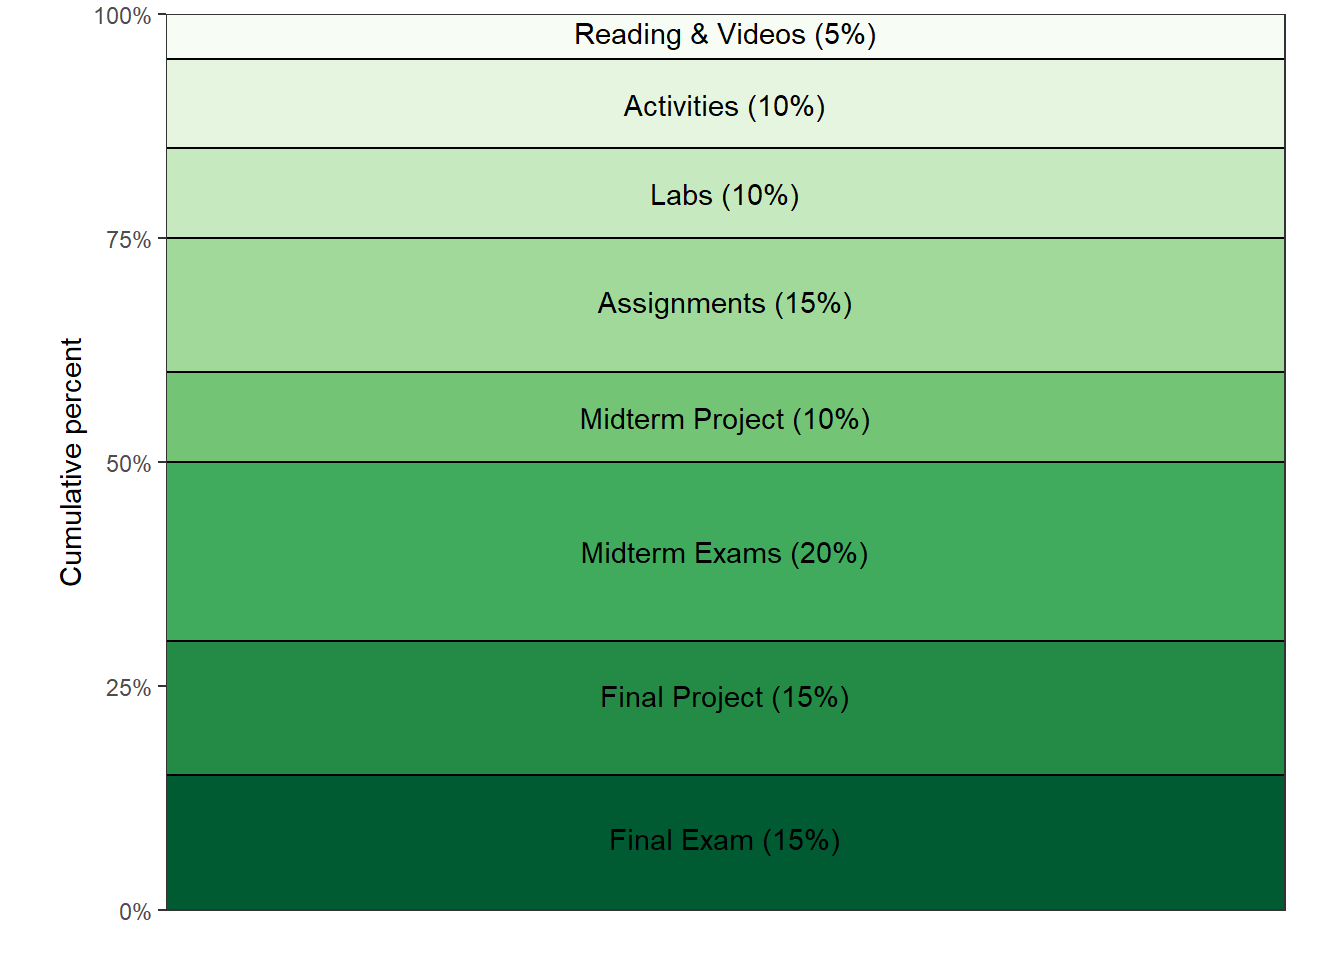
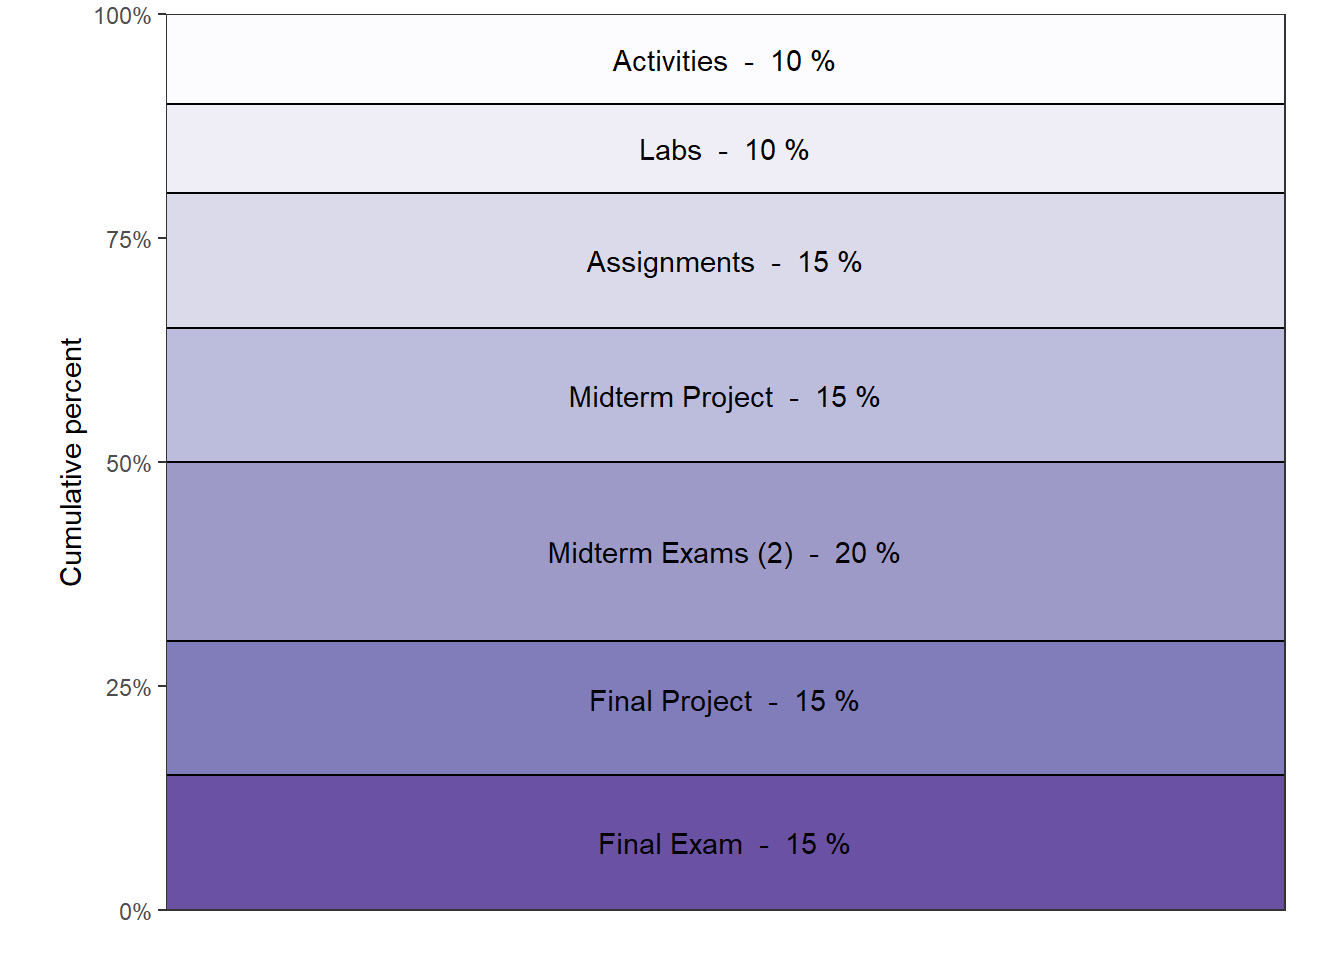
still working on syllabi.

diff --git a/00-course-info/syllabus-master.html b/00-course-info/syllabus-master.html
@@ -55,6 +55,7 @@ ul.task-list li input[type="checkbox"] {
   <li><a href="#prerequisites" id="toc-prerequisites" class="nav-link" data-scroll-target="#prerequisites">Prerequisites</a></li>
   </ul></li>
   <li><a href="#class-schedule-topic-outline" id="toc-class-schedule-topic-outline" class="nav-link" data-scroll-target="#class-schedule-topic-outline">Class Schedule &amp; Topic Outline</a></li>
+  <li><a href="#course-expectations" id="toc-course-expectations" class="nav-link" data-scroll-target="#course-expectations">Course Expectations</a></li>
   <li><a href="#course-policies" id="toc-course-policies" class="nav-link" data-scroll-target="#course-policies">Course Policies</a>
   <ul class="collapse">
   <li><a href="#assessmentgrading" id="toc-assessmentgrading" class="nav-link" data-scroll-target="#assessmentgrading">Assessment/Grading</a></li>
@@ -62,11 +63,13 @@ ul.task-list li input[type="checkbox"] {
   <ul class="collapse">
   <li><a href="#communication" id="toc-communication" class="nav-link" data-scroll-target="#communication">Communication</a></li>
   <li><a href="#assessment-breakdown" id="toc-assessment-breakdown" class="nav-link" data-scroll-target="#assessment-breakdown">Assessment Breakdown</a></li>
+  <li><a href="#midterm-final-projects-25" id="toc-midterm-final-projects-25" class="nav-link" data-scroll-target="#midterm-final-projects-25"><em>Midterm &amp; Final Projects (25%)</em></a></li>
+  <li><a href="#midterm-exams-20" id="toc-midterm-exams-20" class="nav-link" data-scroll-target="#midterm-exams-20"><em>Midterm exams (20%)</em></a></li>
+  <li><a href="#final-exam-15" id="toc-final-exam-15" class="nav-link" data-scroll-target="#final-exam-15"><em>Final exam (15%)</em></a></li>
   <li><a href="#working-in-teams" id="toc-working-in-teams" class="nav-link" data-scroll-target="#working-in-teams">Working in Teams</a></li>
   </ul></li>
   <li><a href="#late-policy" id="toc-late-policy" class="nav-link" data-scroll-target="#late-policy">Late Policy</a></li>
   <li><a href="#attendance" id="toc-attendance" class="nav-link" data-scroll-target="#attendance">Attendance</a></li>
-  <li><a href="#expectations" id="toc-expectations" class="nav-link" data-scroll-target="#expectations">Expectations</a></li>
   </ul></li>
   <li><a href="#required-university-information" id="toc-required-university-information" class="nav-link" data-scroll-target="#required-university-information">Required University Information</a>
   <ul class="collapse">
@@ -312,6 +315,31 @@ ul.task-list li input[type="checkbox"] {
 </div>
 </div>
 </section>
+<section id="course-expectations" class="level1">
+<h1>Course Expectations</h1>
+<p>You will get out of this course what you put in. The following excerpt was taken from Rob Jenkins’ article “Defining the Relationship” which was published in The Chronicle of Higher Education (August 8, 2016). This accurately summarizes what I expect of you in my classroom (and also what you should expect of me).</p>
+<p><em>“I’d like to be your partner. More than anything, I’d like for us to form a mutually beneficial alliance in this endeavor we call education.</em></p>
+<p><em>I pledge to do my part. I will:</em></p>
+<ul>
+<li><em>Stay abreast of the latest ideas in my field.</em></li>
+<li><em>Teach you what I believe you need to know; with all the enthusiasm I possess.</em></li>
+<li><em>Invite your comments and questions and respond constructively.</em></li>
+<li><em>Make myself available to you outside of class (within reason).</em></li>
+<li><em>Evaluate your work carefully and return it promptly with feedback.</em></li>
+<li><em>Be as fair, respectful, and understanding as I can humanly be.</em></li>
+<li><em>If you need help beyond the scope of this course, I will do my best to provide it or see that you get it.</em></li>
+</ul>
+<p><em>In return, I expect you to:</em></p>
+<ul>
+<li><em>Show up for class each day or let me know (preferably in advance) if you have some good reason to be absent.</em></li>
+<li><em>Do your reading and other assignments outside of class and be prepared for each class meeting.</em></li>
+<li><em>Focus during class on the work we’re doing and not on extraneous matters (like whoever or whatever is on your phone at the moment).</em></li>
+<li><em>Participate in class discussions.</em></li>
+<li><em>Be respectful of your fellow students and their points of view.</em></li>
+<li><em>In short, I expect you to devote as much effort to learning as I devote to teaching.</em></li>
+</ul>
+<p><em>What you get out of this relationship is that you’ll be better equipped to succeed in this and other college courses, work-related assignments, and life in general. What I get is a great deal of professional and personal satisfaction. Because I do really like you guys and want the best for you.”</em></p>
+</section>
 <section id="course-policies" class="level1">
 <h1>Course Policies</h1>
 <section id="assessmentgrading" class="level2">
@@ -392,48 +420,52 @@ ul.task-list li input[type="checkbox"] {
 </section>
 <section id="assessment-breakdown" class="level3">
 <h3 class="anchored" data-anchor-id="assessment-breakdown">Assessment Breakdown</h3>
-<div class="panel-tabset" data-group="coures-resources">
-<ul class="nav nav-tabs" role="tablist"><li class="nav-item" role="presentation"><a class="nav-link active" id="tabset-2-1-tab" data-bs-toggle="tab" data-bs-target="#tabset-2-1" role="tab" aria-controls="tabset-2-1" aria-selected="true" href="">Reading &amp; Videos (5%)</a></li><li class="nav-item" role="presentation"><a class="nav-link" id="tabset-2-2-tab" data-bs-toggle="tab" data-bs-target="#tabset-2-2" role="tab" aria-controls="tabset-2-2" aria-selected="false" href="">In-class Activities (10%)</a></li><li class="nav-item" role="presentation"><a class="nav-link" id="tabset-2-3-tab" data-bs-toggle="tab" data-bs-target="#tabset-2-3" role="tab" aria-controls="tabset-2-3" aria-selected="false" href="">Group Labs (10%)</a></li><li class="nav-item" role="presentation"><a class="nav-link" id="tabset-2-4-tab" data-bs-toggle="tab" data-bs-target="#tabset-2-4" role="tab" aria-controls="tabset-2-4" aria-selected="false" href="">Individual Assignments (15%)</a></li><li class="nav-item" role="presentation"><a class="nav-link" id="tabset-2-5-tab" data-bs-toggle="tab" data-bs-target="#tabset-2-5" role="tab" aria-controls="tabset-2-5" aria-selected="false" href="">Midterm exams (20%)</a></li><li class="nav-item" role="presentation"><a class="nav-link" id="tabset-2-6-tab" data-bs-toggle="tab" data-bs-target="#tabset-2-6" role="tab" aria-controls="tabset-2-6" aria-selected="false" href="">Final exam (15%)</a></li></ul>
-<div class="tab-content" data-group="coures-resources">
-<div id="tabset-2-1" class="tab-pane active" role="tabpanel" aria-labelledby="tabset-2-1-tab">
+<!-- ::: {.panel-tabset group="coures-resources"} -->
+<section id="reading-videos-5" class="level4">
+<h4 class="anchored" data-anchor-id="reading-videos-5"><em>Reading &amp; Videos (5%)</em></h4>
 <p>You will be expected to complete the assigned textbook reading and course videos prior to attending class each week. As you complete the reading and watch the videos, you should complete the concept check quiz questions. You can retake the video quizzes as many times as you like (the most recent grade will be recorded in Canvas) until the deadline.</p>
 <ul>
 <li>Concept check quizzes are due <strong>Monday at 8pm Pacific Time each week</strong>.</li>
 <li>The two lowest concept check quiz grades will be dropped.</li>
 </ul>
-</div>
-<div id="tabset-2-2" class="tab-pane" role="tabpanel" aria-labelledby="tabset-2-2-tab">
+</section>
+<section id="activities-10" class="level4">
+<h4 class="anchored" data-anchor-id="activities-10"><em>Activities (10%)</em></h4>
 <p>Monday’s classes will be dedicated to meeting with your classmates and instructor to work through that week’s group activity. Attendance and completion of the activity counts towards this portion of your grade.</p>
 <ul>
 <li>Printed activities will be provided for you on Monday, with Word and PDF files posted on Canvas</li>
-<li>Activities will be checked for completion at the <strong>beginning of class on Wednesday.</strong></li>
+<li>Activities will be checked individually for completion at the <strong>beginning of class on Wednesday.</strong></li>
 <li>If you have an excused absence the day the activity is due (e.g., quarantine or ill), you may email me a scanned copy of the completed activity for credit. This must be received by <strong>8pm Pacific Time on the day the activity would be checked in class</strong>.</li>
 <li>The lowest activity grade will be dropped.</li>
 </ul>
-</div>
-<div id="tabset-2-3" class="tab-pane" role="tabpanel" aria-labelledby="tabset-2-3-tab">
+</section>
+<section id="labs-10" class="level4">
+<h4 class="anchored" data-anchor-id="labs-10"><em>Labs (10%)</em></h4>
 <p>Every Wednesday, you will meet with your classmates and instructor to work through that week’s Rstudio Cloud group lab. The lab will reinforce the ideas learned in the activities completed Monday, through the use of R to explore and analyze data.</p>
 <ul>
 <li>Each group will turn in selected questions from the lab to Canvas. Labs are due <strong>Friday at 8pm Pacific Time each week</strong>.</li>
 <li>Each individual student will also turn in the entirety of each lab for completion at the <strong>beginning of class on Monday</strong>.</li>
 <li>The lowest lab grade will be dropped.</li>
 </ul>
-</div>
-<div id="tabset-2-4" class="tab-pane" role="tabpanel" aria-labelledby="tabset-2-4-tab">
+</section>
+<section id="individual-assignments-15" class="level4">
+<h4 class="anchored" data-anchor-id="individual-assignments-15"><em>Individual Assignments (15%)</em></h4>
 <p>You will complete weekly assignments in <strong>Canvas</strong>. These should be completed <strong>individually</strong> (meaning all answers should be written in your own words), but you may use your classmates, tutors, or your instructor for assistance.</p>
 <ul>
 <li>Weekly assignments are due <strong>Sunday at 8pm Pacific Time each week</strong>.</li>
 <li>The lowest assignment grade will be dropped.</li>
 </ul>
+</section>
+</section>
 <section id="midterm-final-projects-25" class="level3">
-<h3 class="anchored" data-anchor-id="midterm-final-projects-25">Midterm &amp; Final Projects (25%)</h3>
+<h3 class="anchored" data-anchor-id="midterm-final-projects-25"><em>Midterm &amp; Final Projects (25%)</em></h3>
 <p>There will be two projects throughout the quarter, where you will be asked to apply the statistical concepts you have learned in the context of real data. Each of these projects will be done in the teams you have been working with in class. More details will be provided during class.</p>
 </section>
-</div>
-<div id="tabset-2-5" class="tab-pane" role="tabpanel" aria-labelledby="tabset-2-5-tab">
+<section id="midterm-exams-20" class="level3">
+<h3 class="anchored" data-anchor-id="midterm-exams-20"><em>Midterm exams (20%)</em></h3>
 <p>There will be one midterm exam (worth 15% of the course grade). The midterm exam will be taken in class during your normal in-class time. Each exam has a group (Wednesday) and individual (Friday) component. A practice exam will be released in Canvas one week prior to the exam, with solutions to the practice exam released in Canvas the Friday prior to the exam. Further details, resources, and instructions for each exam will be posted the week prior to the exam in Canvas.</p>
-<section id="group-portion" class="level5">
-<h5 class="anchored" data-anchor-id="group-portion"><em>Group portion</em>:</h5>
+<section id="group-portion" class="level4">
+<h4 class="anchored" data-anchor-id="group-portion"><em>Group portion</em>:</h4>
 <p>Group midterm exam 1 will be: <strong>Wednesday, April 27</strong></p>
 <p>Group midterm exam 2 will be: <strong>Wednesday, May 18</strong></p>
 <ul>
@@ -444,8 +476,8 @@ ul.task-list li input[type="checkbox"] {
 <li><strong>If you miss more than 25% of class days within a unit without communicating with your section instructor and group-mates, you must complete the group exam individually.</strong></li>
 </ul>
 </section>
-<section id="individual-portion" class="level5">
-<h5 class="anchored" data-anchor-id="individual-portion"><em>Individual portion</em>:</h5>
+<section id="individual-portion" class="level4">
+<h4 class="anchored" data-anchor-id="individual-portion"><em>Individual portion</em>:</h4>
 <p>Individual midterm exam 1 will be: <strong>Tuesday, April 26th</strong></p>
 <p>Individual midterm exam 2 will be: <strong>Tuesday, May 17th</strong></p>
 <ul>
@@ -457,11 +489,12 @@ ul.task-list li input[type="checkbox"] {
 <li>You will <strong>not</strong> be required to use Rstudio on the individual midterm exams.</li>
 </ul>
 </section>
-</div>
-<div id="tabset-2-6" class="tab-pane" role="tabpanel" aria-labelledby="tabset-2-6-tab">
+</section>
+<section id="final-exam-15" class="level3">
+<h3 class="anchored" data-anchor-id="final-exam-15"><em>Final exam (15%)</em></h3>
 <p>The group final exam will be taken in class during your normal in-class time. A practice exam will be released in Canvas one week prior to the exam, with solutions to the practice exam released in Canvas the Wednesday prior to the exam. Further details, resources, and instructions for each exam will be posted the week prior to the exam in Canvas.</p>
-<section id="group-portion-1" class="level5">
-<h5 class="anchored" data-anchor-id="group-portion-1"><em>Group portion</em>:</h5>
+<section id="group-portion-1" class="level4">
+<h4 class="anchored" data-anchor-id="group-portion-1"><em>Group portion</em>:</h4>
 <p>Group final exam will be <strong>Wednesday, June 1st (during normal class time)</strong>.</p>
 <ul>
 <li>The group portion of the final exam will be worth 20% of your exam grade.</li>
@@ -471,8 +504,8 @@ ul.task-list li input[type="checkbox"] {
 <li><strong>If you miss more than 25% of class days in Unit 3 without communicating with your section instructor and group-mates, you must complete the group exam individually.</strong></li>
 </ul>
 </section>
-<section id="individual-portion-1" class="level5">
-<h5 class="anchored" data-anchor-id="individual-portion-1"><em>Individual portion</em>:</h5>
+<section id="individual-portion-1" class="level4">
+<h4 class="anchored" data-anchor-id="individual-portion-1"><em>Individual portion</em>:</h4>
 <p>Individual final exam will be: <strong>Saturday, June 4, from 10:10am – 1:00pm in 180-0107.</strong></p>
 <ul>
 <li>The individual portion of the final exam will be worth 80% of your exam grade.</li>
@@ -482,10 +515,8 @@ ul.task-list li input[type="checkbox"] {
 <li>You will be allowed a calculator on the individual final exam.</li>
 <li>You will <strong>not</strong> be required to use Rstudio on the individual final exams.</li>
 </ul>
+<!-- ::: -->
 </section>
-</div>
-</div>
-</div>
 </section>
 <section id="working-in-teams" class="level3">
 <h3 class="anchored" data-anchor-id="working-in-teams">Working in Teams</h3>
@@ -522,9 +553,6 @@ ul.task-list li input[type="checkbox"] {
 <h4 class="anchored" data-anchor-id="team-meetings"><em>Team Meetings</em></h4>
 <p>There will be time in each class for your team to work on the assignment for the week, however this time will not be sufficient to complete the assignments. Therefore, every group is expected to meet for at least 1-hour outside of class.</p>
 <p><strong>If you are not in attendance for <em>more than one</em> of your team meetings that week, you will be expected to complete that week’s activity and lab on your own.</strong></p>
-<!-- My hope is that each member of the group looks over the week's assignment on Monday while reading the week's chapter(s). Then, each member should have a  solid understanding of the content by Tuesday's activity. During Tuesday's activity and Wednesday's lab, the Team Manager is tasked with leading the -->
-<!-- discussion of the activity. The Reporter is tasked with recording the ideas shared by the team. The editor is tasked with ensuring each team member has the opportunity to share and, following the class meeting, is in charge of reviewing the draft submitted by the Recorder.  -->
-<!-- As a team, you can choose to work together or independently on the assignment's problems between course meetings. The Manager is responsible for scheduling additional meetings, so that the Editor is able to submit the assignment on time.  -->
 </section>
 </section>
 </section>
@@ -545,23 +573,6 @@ ul.task-list li input[type="checkbox"] {
 <h2 class="anchored" data-anchor-id="attendance">Attendance</h2>
 <p>You are expected to attend class and participate in the week’s team collaboration in a timely manner. If you find that you are unable to participate in the week’s team collaborations, <strong>please let your team know and contact me</strong>. Consistent, repeated failure to attend class or actively participate in the online portions of the course will affect the participation portion of your grade.</p>
 <p>If you are feeling ill, please <strong>do not come to class</strong>. Instead, please email myself and group-mates letting them know <strong>prior to the class meeting</strong>. Review the material and work on the homework assignment, and then schedule an appointment with me to meet virtually.</p>
-</section>
-<section id="expectations" class="level2">
-<h2 class="anchored" data-anchor-id="expectations">Expectations</h2>
-<p>You can expect me to:</p>
-<ul>
-<li>reply to emails within 48 hours during the week (72 hours on weekends)</li>
-<li>be available in class to assist with assignments</li>
-<li>be available by appointment for additional help or discussion</li>
-</ul>
-<p>I expect you to:</p>
-<ul>
-<li>Read the textbook material and watch any videos before coming to class</li>
-<li>Engage with the material and your classmates during class</li>
-<li>Seek help when you do not understand the material</li>
-<li>Communicate promptly if you anticipate that you will have trouble meeting deadlines or participating in a portion of the course.</li>
-<li>Be respectful and considerate of everyone in the class</li>
-</ul>
 <hr>
 </section>
 </section>

diff --git a/README.md b/README.md
@@ -6,6 +6,11 @@
 
 + Fall 2022
 
-**Class Slides**
+[Master Syllabus](https://earobinson95.github.io/stat218-calpoly/00-course-info/syllabus-master.html)
 
-**Reading Guides**
+## Week 1: Introduction to Data
+
++ Lectures [a]() & [b]()
++ [Reading Guide]()
++ [Activity]()
++ [Lab]()
